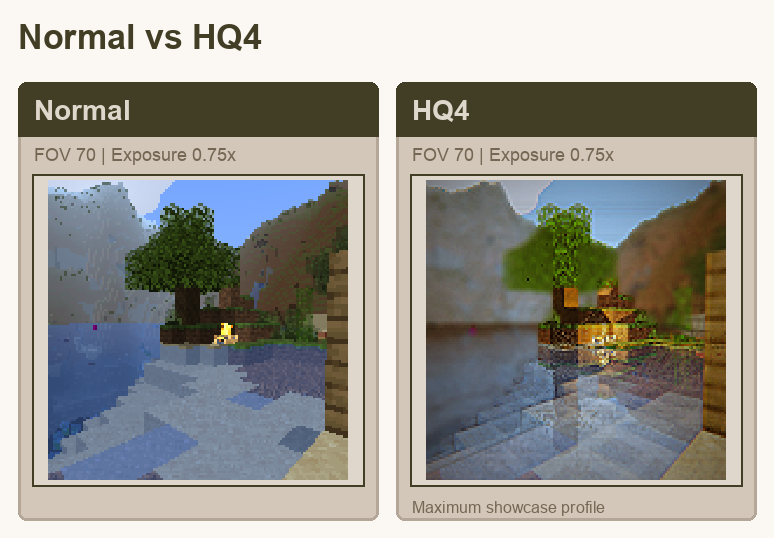
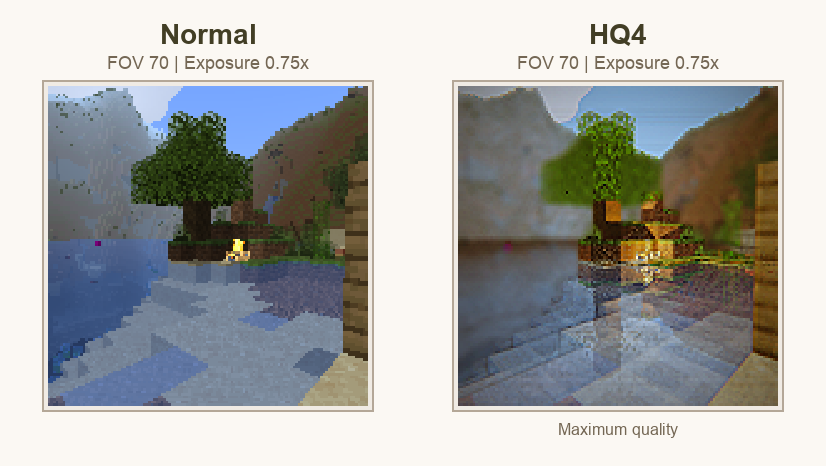
Flatten camera settings comparison visuals

diff --git a/docs/stylesheets/extra.css b/docs/stylesheets/extra.css
@@ -53,12 +53,11 @@
 }
 
 .md-typeset figure.sb-figure {
-  margin: 1.4rem 0 2rem;
-  padding: 0.85rem;
-  border: 1px solid var(--sb-mid);
-  border-radius: 8px;
-  background: linear-gradient(180deg, var(--sb-highlight), var(--sb-panel));
-  box-shadow: 0 12px 32px rgba(32, 34, 12, 0.14);
+  margin: 1.3rem 0 2rem;
+  padding: 0;
+  border: 0;
+  background: transparent;
+  box-shadow: none;
 }
 
 .md-typeset figure.sb-figure img {
@@ -67,13 +66,15 @@
   max-width: none;
   height: auto;
   margin: 0 auto;
-  border: 1px solid var(--sb-dark);
+  border: 1px solid var(--sb-mid);
   border-radius: 6px;
   background: var(--sb-panel);
+  box-shadow: 0 10px 26px rgba(32, 34, 12, 0.12);
 }
 
 .md-typeset figure.sb-figure figcaption {
-  margin: 0.65rem 0 0;
+  margin: 0.55rem auto 0;
+  max-width: 46rem;
   color: var(--sb-muted);
   font-size: 0.82rem;
   line-height: 1.45;
@@ -96,6 +97,12 @@
 .md-typeset .sb-map {
   image-rendering: pixelated;
   image-rendering: crisp-edges;
+}
+
+.md-typeset figure.sb-figure img.sb-map {
+  border: 0;
+  background: transparent;
+  box-shadow: none;
 }
 
 .md-typeset .sb-compact-list {
